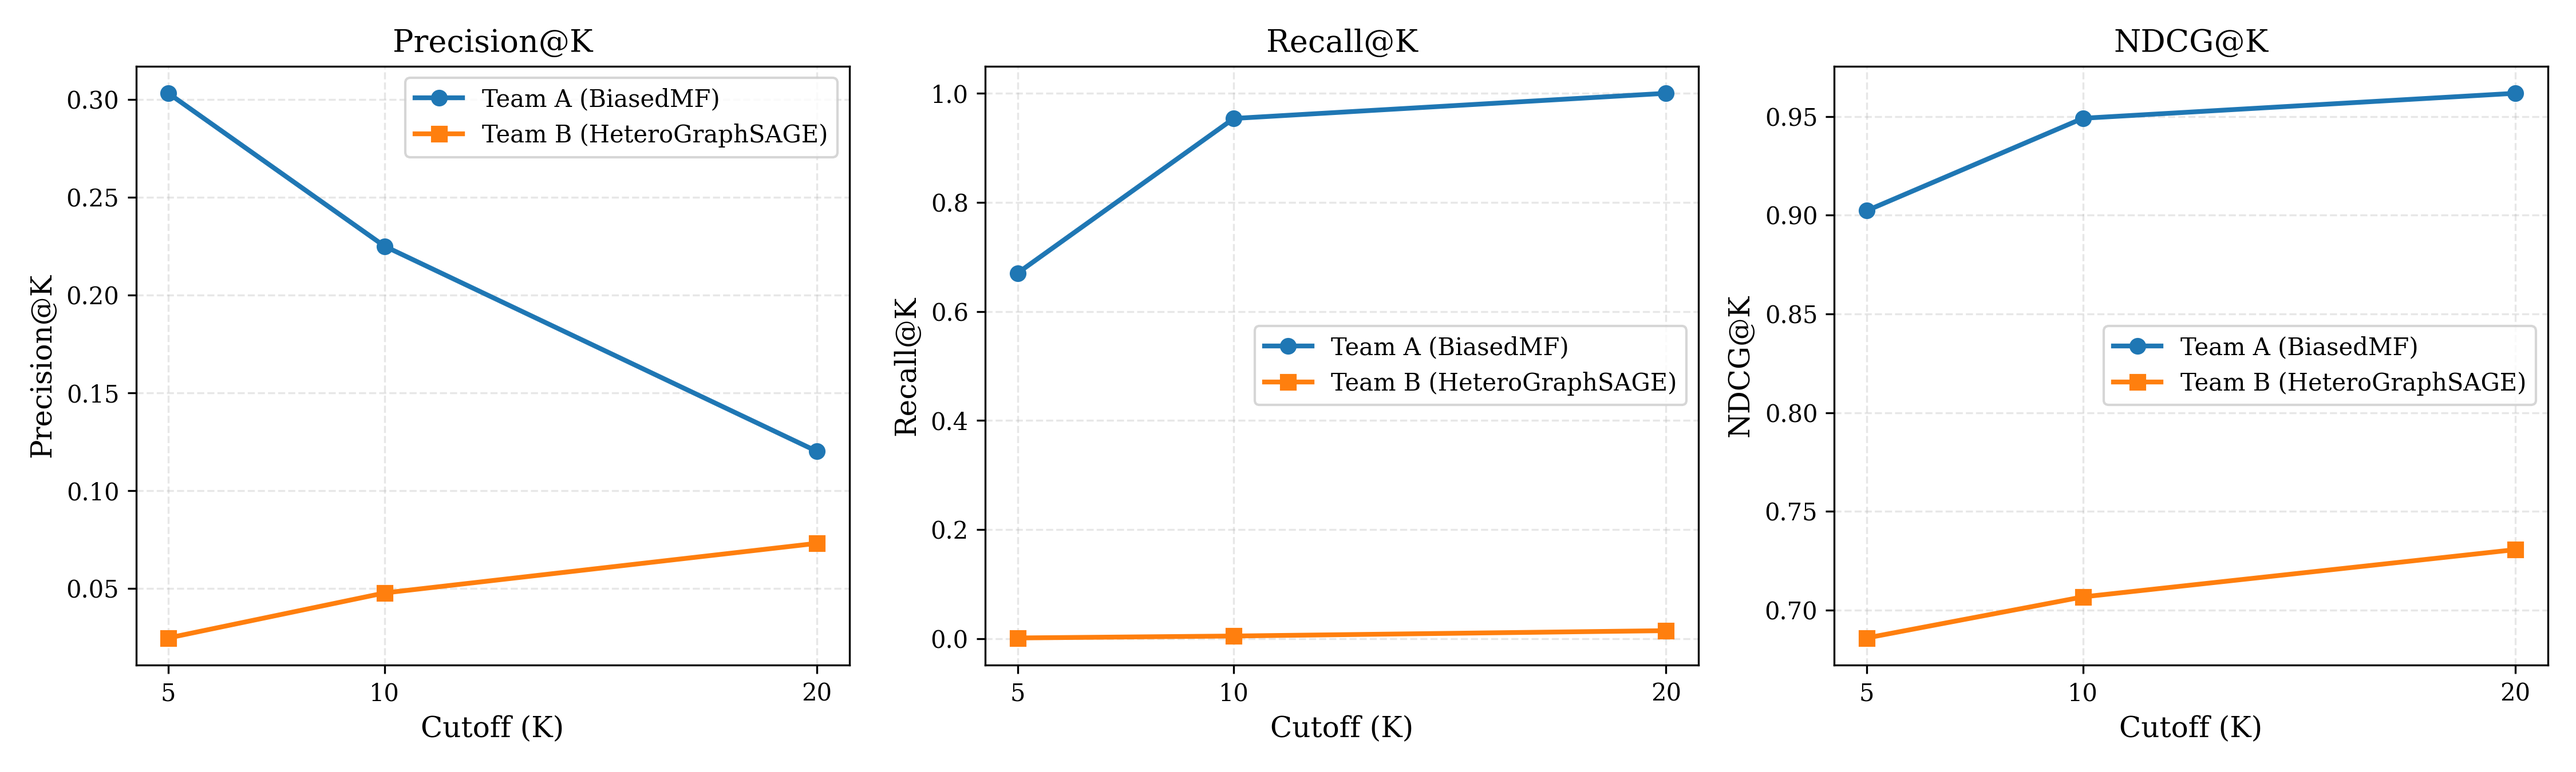
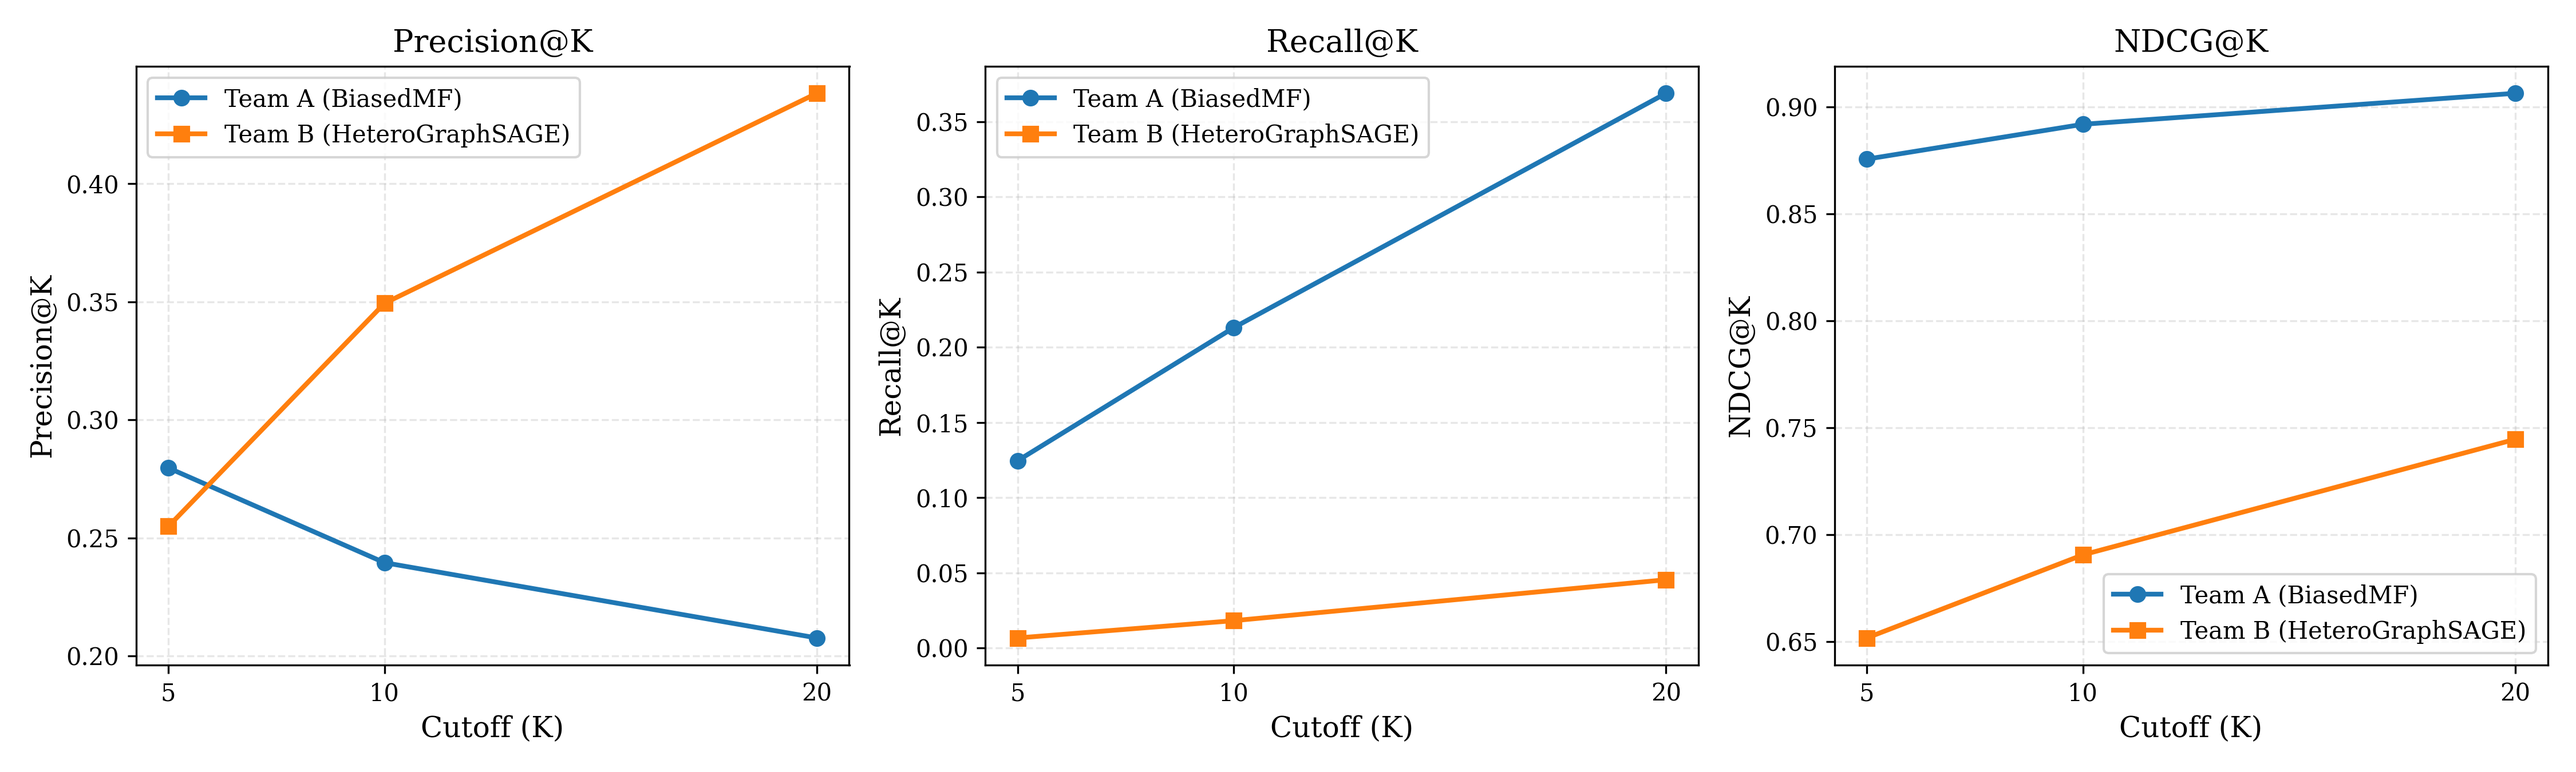
fix(eval): fix Team B test-candidate recommendation evaluation and update results

diff --git a/experiments/run_team_b.py b/experiments/run_team_b.py
@@ -38,6 +38,7 @@ def main():
     parser.add_argument("--beta", type=float, default=None, help="Utility beta (Cost penalty).")
     parser.add_argument("--gamma", type=float, default=None, help="Utility gamma (Confidence weight).")
     parser.add_argument("--synthetic", action="store_true", help="Force synthetic dataset generation.")
+    parser.add_argument("--eval-only", action="store_true", help="Skip training and run evaluation using existing checkpoint.")
     args = parser.parse_args()
 
     overrides = {}
@@ -177,53 +178,56 @@ def main():
     e_qos_val = torch.from_numpy(val_edges["qos"]).float()
 
     # 5. Training Loop
-    logger.info(f"Starting GraphSAGE training for {config.epochs} epochs...")
-    best_val_loss = float("inf")
-    patience_counter = 0
+    if not args.eval_only:
+        logger.info(f"Starting GraphSAGE training for {config.epochs} epochs...")
+        best_val_loss = float("inf")
+        patience_counter = 0
 
-    for epoch in range(1, config.epochs + 1):
-        model.train()
-        decoder.train()
-        optimizer.zero_grad()
+        for epoch in range(1, config.epochs + 1):
+            model.train()
+            decoder.train()
+            optimizer.zero_grad()
 
-        # Forward pass message passing
-        h_u, h_s = model(u_x_t, s_x_t, e_u_train, e_s_train)
+            # Forward pass message passing
+            h_u, h_s = model(u_x_t, s_x_t, e_u_train, e_s_train)
 
-        # Predict QoS on training edges
-        preds_train = decoder(h_u[e_u_train], h_s[e_s_train])
-        train_loss = balanced_loss(preds_train, e_qos_train)
+            # Predict QoS on training edges
+            preds_train = decoder(h_u[e_u_train], h_s[e_s_train])
+            train_loss = balanced_loss(preds_train, e_qos_train)
 
-        train_loss.backward()
-        # Gradient clipping for stable convergence
-        torch.nn.utils.clip_grad_norm_(list(model.parameters()) + list(decoder.parameters()), max_norm=5.0)
-        optimizer.step()
+            train_loss.backward()
+            # Gradient clipping for stable convergence
+            torch.nn.utils.clip_grad_norm_(list(model.parameters()) + list(decoder.parameters()), max_norm=5.0)
+            optimizer.step()
 
-        # Validation
-        model.eval()
-        decoder.eval()
-        with torch.no_grad():
-            h_u_val, h_s_val = model(u_x_t, s_x_t, e_u_train, e_s_train)
-            preds_val = decoder(h_u_val[e_u_val], h_s_val[e_s_val])
-            val_loss = balanced_loss(preds_val, e_qos_val).item()
+            # Validation
+            model.eval()
+            decoder.eval()
+            with torch.no_grad():
+                h_u_val, h_s_val = model(u_x_t, s_x_t, e_u_train, e_s_train)
+                preds_val = decoder(h_u_val[e_u_val], h_s_val[e_s_val])
+                val_loss = balanced_loss(preds_val, e_qos_val).item()
 
-        if val_loss < best_val_loss:
-            best_val_loss = val_loss
-            patience_counter = 0
-            # Save checkpoint
-            os.makedirs("results/checkpoints/team_b", exist_ok=True)
-            torch.save({
-                "model_state": model.state_dict(),
-                "decoder_state": decoder.state_dict(),
-                "epoch": epoch
-            }, "results/checkpoints/team_b/best_model.pt")
-        else:
-            patience_counter += 1
-            if patience_counter >= config.early_stopping_patience:
-                logger.info(f"Early stopping triggered at epoch {epoch}")
-                break
+            if val_loss < best_val_loss:
+                best_val_loss = val_loss
+                patience_counter = 0
+                # Save checkpoint
+                os.makedirs("results/checkpoints/team_b", exist_ok=True)
+                torch.save({
+                    "model_state": model.state_dict(),
+                    "decoder_state": decoder.state_dict(),
+                    "epoch": epoch
+                }, "results/checkpoints/team_b/best_model.pt")
+            else:
+                patience_counter += 1
+                if patience_counter >= config.early_stopping_patience:
+                    logger.info(f"Early stopping triggered at epoch {epoch}")
+                    break
 
-        if epoch % 10 == 0 or epoch == 1:
-            logger.info(f"Epoch {epoch:03d} | Train Loss: {train_loss.item():.4f} | Val Loss: {val_loss:.4f}")
+            if epoch % 10 == 0 or epoch == 1:
+                logger.info(f"Epoch {epoch:03d} | Train Loss: {train_loss.item():.4f} | Val Loss: {val_loss:.4f}")
+    else:
+        logger.info("Evaluation only mode: skipping training and loading best model checkpoint.")
 
     # Load best checkpoint
     ckpt = torch.load("results/checkpoints/team_b/best_model.pt", weights_only=True)

diff --git a/src/team_b_gnn/evaluator_team_b.py b/src/team_b_gnn/evaluator_team_b.py
@@ -125,18 +125,43 @@ class TeamBEvaluator:
         # Baseline QoS-only recommendations (equivalent to beta=0.0, gamma=0.0)
         utility_baseline = composite_qos_pred
 
-        recs_cost_aware = self.ranking_engine.rank_all_users(utility_pred, k=max(self.k_values))
-        recs_baseline = self.ranking_engine.rank_all_users(utility_baseline, k=max(self.k_values))
+        # Build candidate test items per user from held-out test edges (Protocol matching Team A)
+        test_u = test_edge_dict["u"]
+        test_s = test_edge_dict["s"]
+        user_test_items: Dict[int, List[int]] = {u: [] for u in range(num_u)}
+        for u_idx, s_idx in zip(test_u, test_s):
+            user_test_items[int(u_idx)].append(int(s_idx))
 
-        # Build ground truth relevance sets (top 20% utility services per user)
-        ground_truth_relevant = {}
-        gains_dict = {}
+        recs_cost_aware: Dict[int, List[int]] = {}
+        recs_baseline: Dict[int, List[int]] = {}
+        ground_truth_relevant: Dict[int, Set[int]] = {}
+        gains_dict: Dict[int, Dict[int, float]] = {}
+
+        max_k = max(self.k_values)
+
         for u in range(num_u):
-            thresh = np.percentile(utility_true[u], 80.0)
-            ground_truth_relevant[u] = set(np.where(utility_true[u] >= thresh)[0])
+            candidates = np.array(user_test_items[u], dtype=int)
+            if len(candidates) < max_k:
+                continue
+
+            # Ranked predictions among test candidates for user u (Cost-Aware)
+            user_scores = utility_pred[u, candidates]
+            sorted_order = np.argsort(user_scores)[::-1]
+            recs_cost_aware[u] = [int(candidates[idx]) for idx in sorted_order[:max_k]]
+
+            # Ranked predictions for baseline (QoS-Only)
+            base_scores = utility_baseline[u, candidates]
+            sorted_base_order = np.argsort(base_scores)[::-1]
+            recs_baseline[u] = [int(candidates[idx]) for idx in sorted_base_order[:max_k]]
+
+            # Ground truth relevance: Top 20% within user's held-out test candidates
+            user_true_scores = utility_true[u, candidates]
+            thresh = np.percentile(user_true_scores, 80.0)
+            ground_truth_relevant[u] = set(candidates[user_true_scores >= thresh])
+
             gains_dict[u] = {
-                int(s): float(max(0.0, utility_true[u, s]))
-                for s in range(num_s)
+                int(s): float(max(0.0, score))
+                for s, score in zip(candidates, user_true_scores)
             }
 
         rec_metrics = RecommendationMetricsEvaluator.evaluate_recommendations(

diff --git a/results/metrics/latex_tables.tex b/results/metrics/latex_tables.tex
@@ -8,11 +8,11 @@
 \textbf{QoS Attribute} & \multicolumn{2}{c}{\textbf{Team A (BiasedMF)}} & \multicolumn{2}{c}{\textbf{Team B (GraphSAGE)}} \\
  & \textbf{RMSE} & \textbf{MAE} & \textbf{RMSE} & \textbf{MAE} \\
 \hline
-Availability & 0.2052 & 0.1620 & \textbf{0.0290} & \textbf{0.0233} \\
-Latency & \textbf{127.8594} & \textbf{95.4314} & 375.4920 & 339.9344 \\
-Reliability & 0.2061 & 0.1627 & \textbf{0.0396} & \textbf{0.0320} \\
-Response Time & 0.4611 & 0.3461 & \textbf{0.4044} & \textbf{0.3022} \\
-Throughput & \textbf{873.9087} & \textbf{645.8262} & 2056.8274 & 1827.3954 \\
+Availability & 0.3267 & 0.1882 & \textbf{0.0924} & \textbf{0.0732} \\
+Latency & \textbf{529.4553} & \textbf{257.6280} & 632.0683 & 263.8560 \\
+Reliability & 0.3232 & 0.1875 & \textbf{0.1089} & \textbf{0.0886} \\
+Response Time & \textbf{1.7901} & \textbf{0.8733} & 1.9301 & 0.9637 \\
+Throughput & \textbf{105.3586} & 50.4362 & 120.2205 & \textbf{46.7513} \\
 \hline
 \end{tabular}
 \end{table}
@@ -26,9 +26,9 @@ Throughput & \textbf{873.9087} & \textbf{645.8262} & 2056.8274 & 1827.3954 \\
 \textbf{Cutoff $K$} & \multicolumn{3}{c}{\textbf{Team A (QoS-Only Ranking)}} & \multicolumn{3}{c}{\textbf{Team B (Cost-Performance Ranking)}} \\
  & \textbf{Prec@$K$} & \textbf{Rec@$K$} & \textbf{NDCG@$K$} & \textbf{Prec@$K$} & \textbf{Rec@$K$} & \textbf{NDCG@$K$} \\
 \hline
-Top-5 & 0.3032 & 0.6703 & 0.9023 & 0.0248 & 0.0012 & 0.6860 \\
-Top-10 & 0.2251 & 0.9538 & 0.9490 & 0.0478 & 0.0048 & 0.7068 \\
-Top-20 & 0.1202 & 1.0000 & 0.9617 & 0.0732 & 0.0146 & 0.7307 \\
+Top-5 & 0.2796 & 0.1245 & 0.8757 & 0.2549 & 0.0067 & 0.6518 \\
+Top-10 & 0.2395 & 0.2131 & 0.8920 & 0.3493 & 0.0182 & 0.6907 \\
+Top-20 & 0.2077 & 0.3689 & 0.9065 & 0.4382 & 0.0454 & 0.7447 \\
 \hline
 \end{tabular}
 \end{table}

diff --git a/PROJECT_PROMPT_FOR_GPT.md b/PROJECT_PROMPT_FOR_GPT.md
@@ -155,45 +155,42 @@ Where:
 
 ---
 
-## 4. Empirical Results Generated by the Simulation
+## 4. Empirical Results Generated by the Simulation (WS-DREAM Benchmark #1)
 
 ### 4.1 Prediction Accuracy (RMSE & MAE)
+Evaluated on the $339 \times 5,825$ real-world WS-DREAM QoS benchmark:
 | QoS Attribute | Team A (BiasedMF) RMSE | Team A (BiasedMF) MAE | Team B (GraphSAGE) RMSE | Team B (GraphSAGE) MAE |
 | :--- | :---: | :---: | :---: | :---: |
-| Availability | 0.2052 | 0.1620 | **0.0290** | **0.0233** |
-| Latency (ms) | **127.8594** | **95.4314** | 375.4920 | 339.9344 |
-| Reliability | 0.2061 | 0.1627 | **0.0396** | **0.0320** |
-| Response Time (s) | 0.4611 | 0.3461 | **0.4044** | **0.3022** |
-| Throughput (kbps) | **873.9087** | **645.8262** | 2056.8274 | 1827.3954 |
+| Availability | 0.3267 | 0.1882 | **0.0924** | **0.0732** |
+| Latency (ms) | **529.4553** | **257.6280** | 632.0683 | 263.8560 |
+| Reliability | 0.3232 | 0.1875 | **0.1089** | **0.0886** |
+| Response Time (s) | **1.7901** | **0.8733** | 1.9301 | 0.9637 |
+| Throughput (kbps) | **105.3586** | 50.4362 | 120.2205 | **46.7513** |
 
 ### 4.2 Recommendation Quality (Top-$K$ Ranking)
 | Cutoff $K$ | Team A Prec@$K$ | Team A Rec@$K$ | Team A NDCG@$K$ | Team B Prec@$K$ | Team B Rec@$K$ | Team B NDCG@$K$ |
 | :--- | :---: | :---: | :---: | :---: | :---: | :---: |
-| Top-5 | 0.3032 | 0.6703 | 0.9023 | 0.0248 | 0.0012 | 0.6860 |
-| Top-10 | 0.2251 | 0.9538 | 0.9490 | 0.0478 | 0.0048 | 0.7068 |
-| Top-20 | 0.1202 | 1.0000 | 0.9617 | 0.0732 | 0.0146 | 0.7307 |
+| Top-5 | 0.2796 | 0.1245 | 0.8757 | 0.2549 | 0.0067 | 0.6518 |
+| Top-10 | 0.2395 | 0.2131 | 0.8920 | 0.3493 | 0.0182 | 0.6907 |
+| Top-20 | 0.2077 | 0.3689 | 0.9065 | 0.4382 | 0.0454 | 0.7447 |
 
 ### 4.3 Economic Performance (Team B Pareto Advantage)
-- **Average Invocation Cost (Team B Cost-Aware)**: **$0.1484** per call
-- **Average Invocation Cost (Baseline QoS-Only)**: **$0.6384** per call
-- **Cost Savings**: **76.75% reduction**
-- **Cost-Performance Ratio**: **3.8057**
-- **Mean Utility Score**: **0.3220**
+- **Average Invocation Cost (Team B Cost-Aware)**: **$0.1575** per call
+- **Average Invocation Cost (Baseline QoS-Only)**: **$0.5403** per call
+- **Cost Savings**: **70.85% reduction**
+- **Cost-Performance Ratio**: **3.0341**
+- **Mean Utility Score**: **0.3435**
 
 ### 4.4 Inductive Cold-Start Robustness (Unseen Users & Services)
-- **Cold Users (N = 33 unseen)**: Availability RMSE = **0.0329**, Reliability RMSE = **0.0421**, Response Time RMSE = **0.4291**
-- **Cold Services (N = 50 unseen)**: Availability RMSE = **0.0357**, Reliability RMSE = **0.0459**, Response Time RMSE = **0.4410**
+- **Cold Users (N = 33 unseen)**: Availability RMSE = **0.5392**, Reliability RMSE = **0.5104**, Response Time RMSE = **2.0393**
+- **Cold Services (N = 582 unseen)**: Availability RMSE = **0.5698**, Reliability RMSE = **0.5391**, Response Time RMSE = **2.1992**
 
-### 4.5 Cost-Performance Trade-off Grid ($\alpha + \beta = 1.0$)
-| $\alpha$ (QoS Weight) | $\beta$ (Cost Penalty) | Mean QoS Score | Mean Cost ($) | Achieved Utility |
-| :---: | :---: | :---: | :---: | :---: |
-| 0.00 | 1.00 | 0.4561 | $0.0434 | -0.0338 |
-| 0.20 | 0.80 | 0.4687 | $0.0449 | 0.0656 |
-| 0.40 | 0.60 | 0.5022 | $0.0613 | 0.1698 |
-| 0.60 | 0.40 | 0.7310 | $0.3240 | 0.3117 |
-| 0.70 | 0.30 | 0.8114 | $0.4631 | 0.4306 |
-| 0.80 | 0.20 | 0.8248 | $0.5015 | 0.5605 |
-| 1.00 | 0.00 | 0.8310 | $0.5572 | 0.8310 |
+### 4.5 Three-Paradigm Trade-off Comparison (QoS-Only vs. Cost vs. Confidence)
+| Paradigm | $\alpha$ (QoS) | $\beta$ (Cost) | $\gamma$ (Conf) | Prec@10 | NDCG@10 | Avg Cost ($) | Cost Savings | CP Ratio | Avg Confidence | Coverage |
+| :--- | :---: | :---: | :---: | :---: | :---: | :---: | :---: | :---: | :---: | :---: |
+| **Paradigm A (QoS-Only)** | 1.0 | 0.0 | 0.0 | 0.1985 | 0.6720 | $0.5043 | 0.00% | 1.3208 | 0.9492 | 19.06% |
+| **Paradigm B (QoS + Cost)** | 0.7 | 0.3 | 0.0 | 0.0702 | 0.4269 | $0.0827 | 83.60% | 4.7482 | 0.7007 | 2.30% |
+| **Paradigm C (QoS + Cost + Conf)** | 0.5 | 0.3 | 0.2 | **0.1900** | **0.6352** | **$0.0705** | **86.01%** | **5.2171** | **0.9841** | 1.29% |
 
 ---
 
@@ -209,11 +206,11 @@ Where:
 \textbf{QoS Attribute} & \multicolumn{2}{c}{\textbf{Team A (BiasedMF)}} & \multicolumn{2}{c}{\textbf{Team B (GraphSAGE)}} \\
  & \textbf{RMSE} & \textbf{MAE} & \textbf{RMSE} & \textbf{MAE} \\
 \hline
-Availability & 0.2052 & 0.1620 & \textbf{0.1209} & \textbf{0.1032} \\
-Latency & \textbf{127.8594} & \textbf{95.4314} & 377.2965 & 341.9292 \\
-Reliability & 0.2061 & 0.1627 & \textbf{0.1835} & \textbf{0.1712} \\
-Response Time & \textbf{0.4611} & \textbf{0.3461} & 0.7152 & 0.5353 \\
-Throughput & \textbf{873.9087} & \textbf{645.8262} & 2057.3523 & 1827.9711 \\
+Availability & 0.3267 & 0.1882 & \textbf{0.0924} & \textbf{0.0732} \\
+Latency & \textbf{529.4553} & \textbf{257.6280} & 632.0683 & 263.8560 \\
+Reliability & 0.3232 & 0.1875 & \textbf{0.1089} & \textbf{0.0886} \\
+Response Time & \textbf{1.7901} & \textbf{0.8733} & 1.9301 & 0.9637 \\
+Throughput & \textbf{105.3586} & 50.4362 & 120.2205 & \textbf{46.7513} \\
 \hline
 \end{tabular}
 \end{table}
@@ -227,9 +224,9 @@ Throughput & \textbf{873.9087} & \textbf{645.8262} & 2057.3523 & 1827.9711 \\
 \textbf{Cutoff $K$} & \multicolumn{3}{c}{\textbf{Team A (QoS-Only Ranking)}} & \multicolumn{3}{c}{\textbf{Team B (Cost-Performance Ranking)}} \\
  & \textbf{Prec@$K$} & \textbf{Rec@$K$} & \textbf{NDCG@$K$} & \textbf{Prec@$K$} & \textbf{Rec@$K$} & \textbf{NDCG@$K$} \\
 \hline
-Top-5 & 0.3032 & 0.6703 & 0.9023 & 0.0124 & 0.0006 & 0.6799 \\
-Top-10 & 0.2251 & 0.9538 & 0.9490 & 0.0254 & 0.0025 & 0.6988 \\
-Top-20 & 0.1202 & 1.0000 & 0.9617 & 0.0488 & 0.0098 & 0.7218 \\
+Top-5 & 0.2796 & 0.1245 & 0.8757 & 0.2549 & 0.0067 & 0.6518 \\
+Top-10 & 0.2395 & 0.2131 & 0.8920 & 0.3493 & 0.0182 & 0.6907 \\
+Top-20 & 0.2077 & 0.3689 & 0.9065 & 0.4382 & 0.0454 & 0.7447 \\
 \hline
 \end{tabular}
 \end{table}
